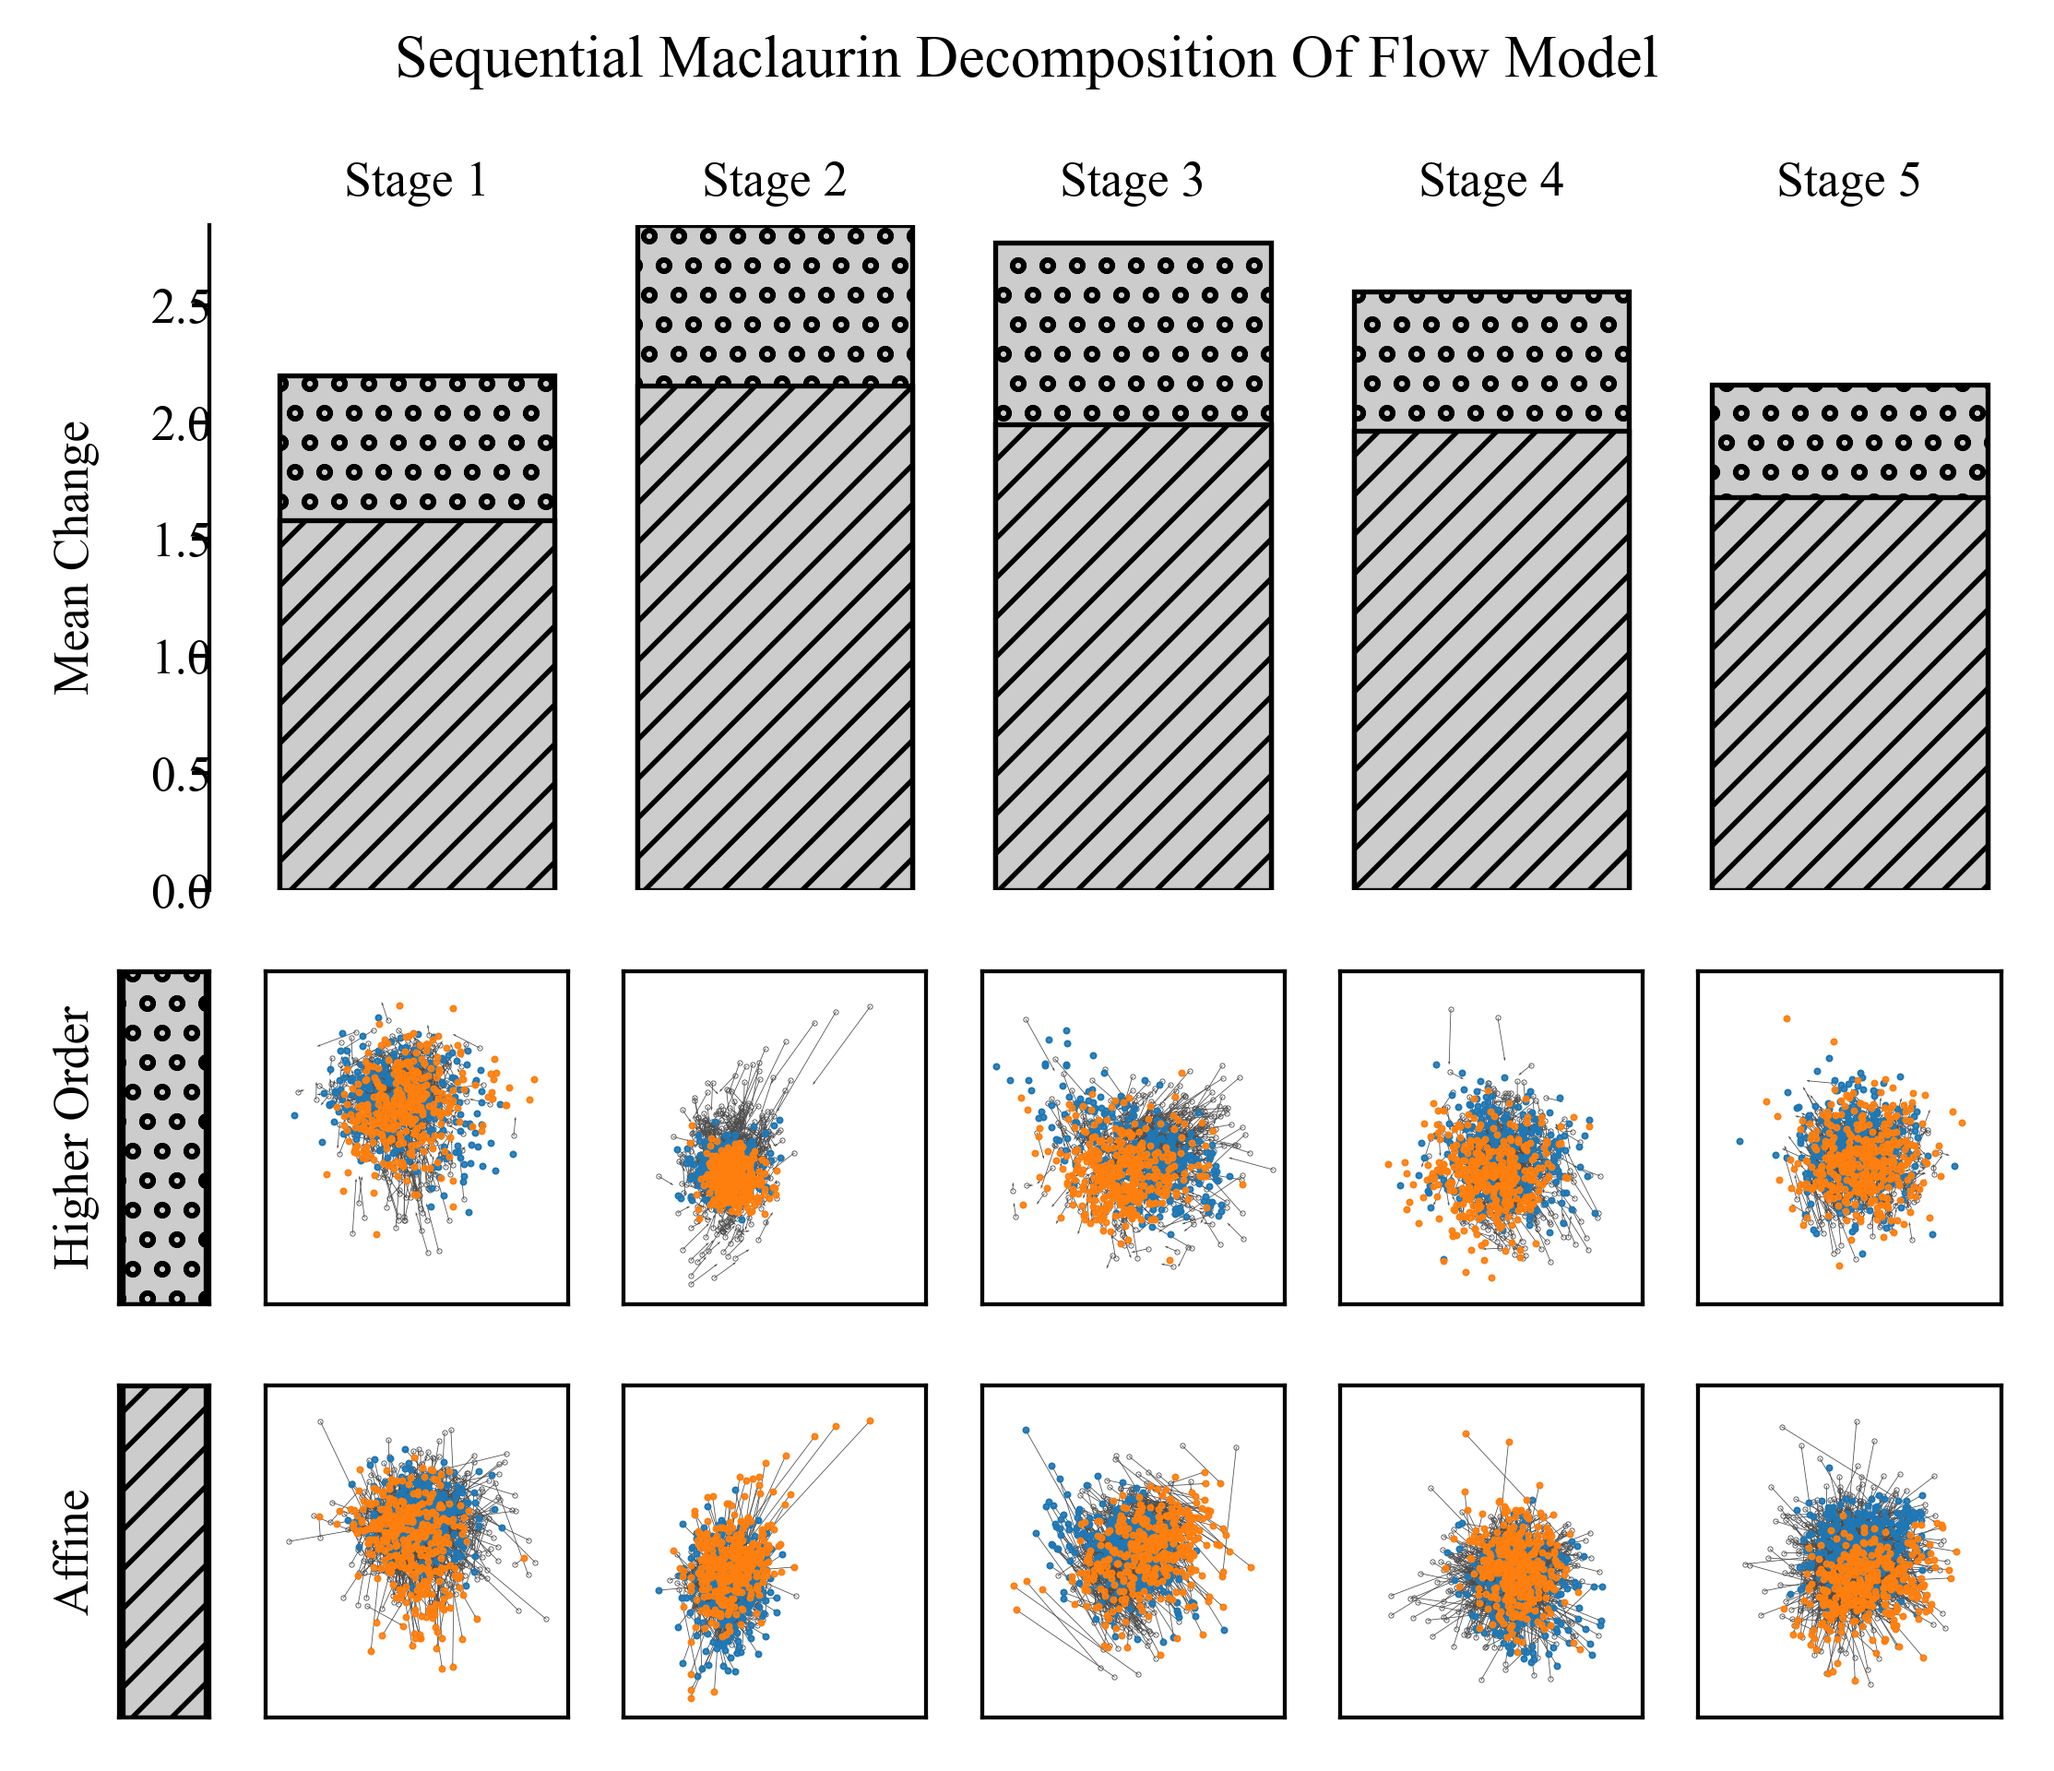
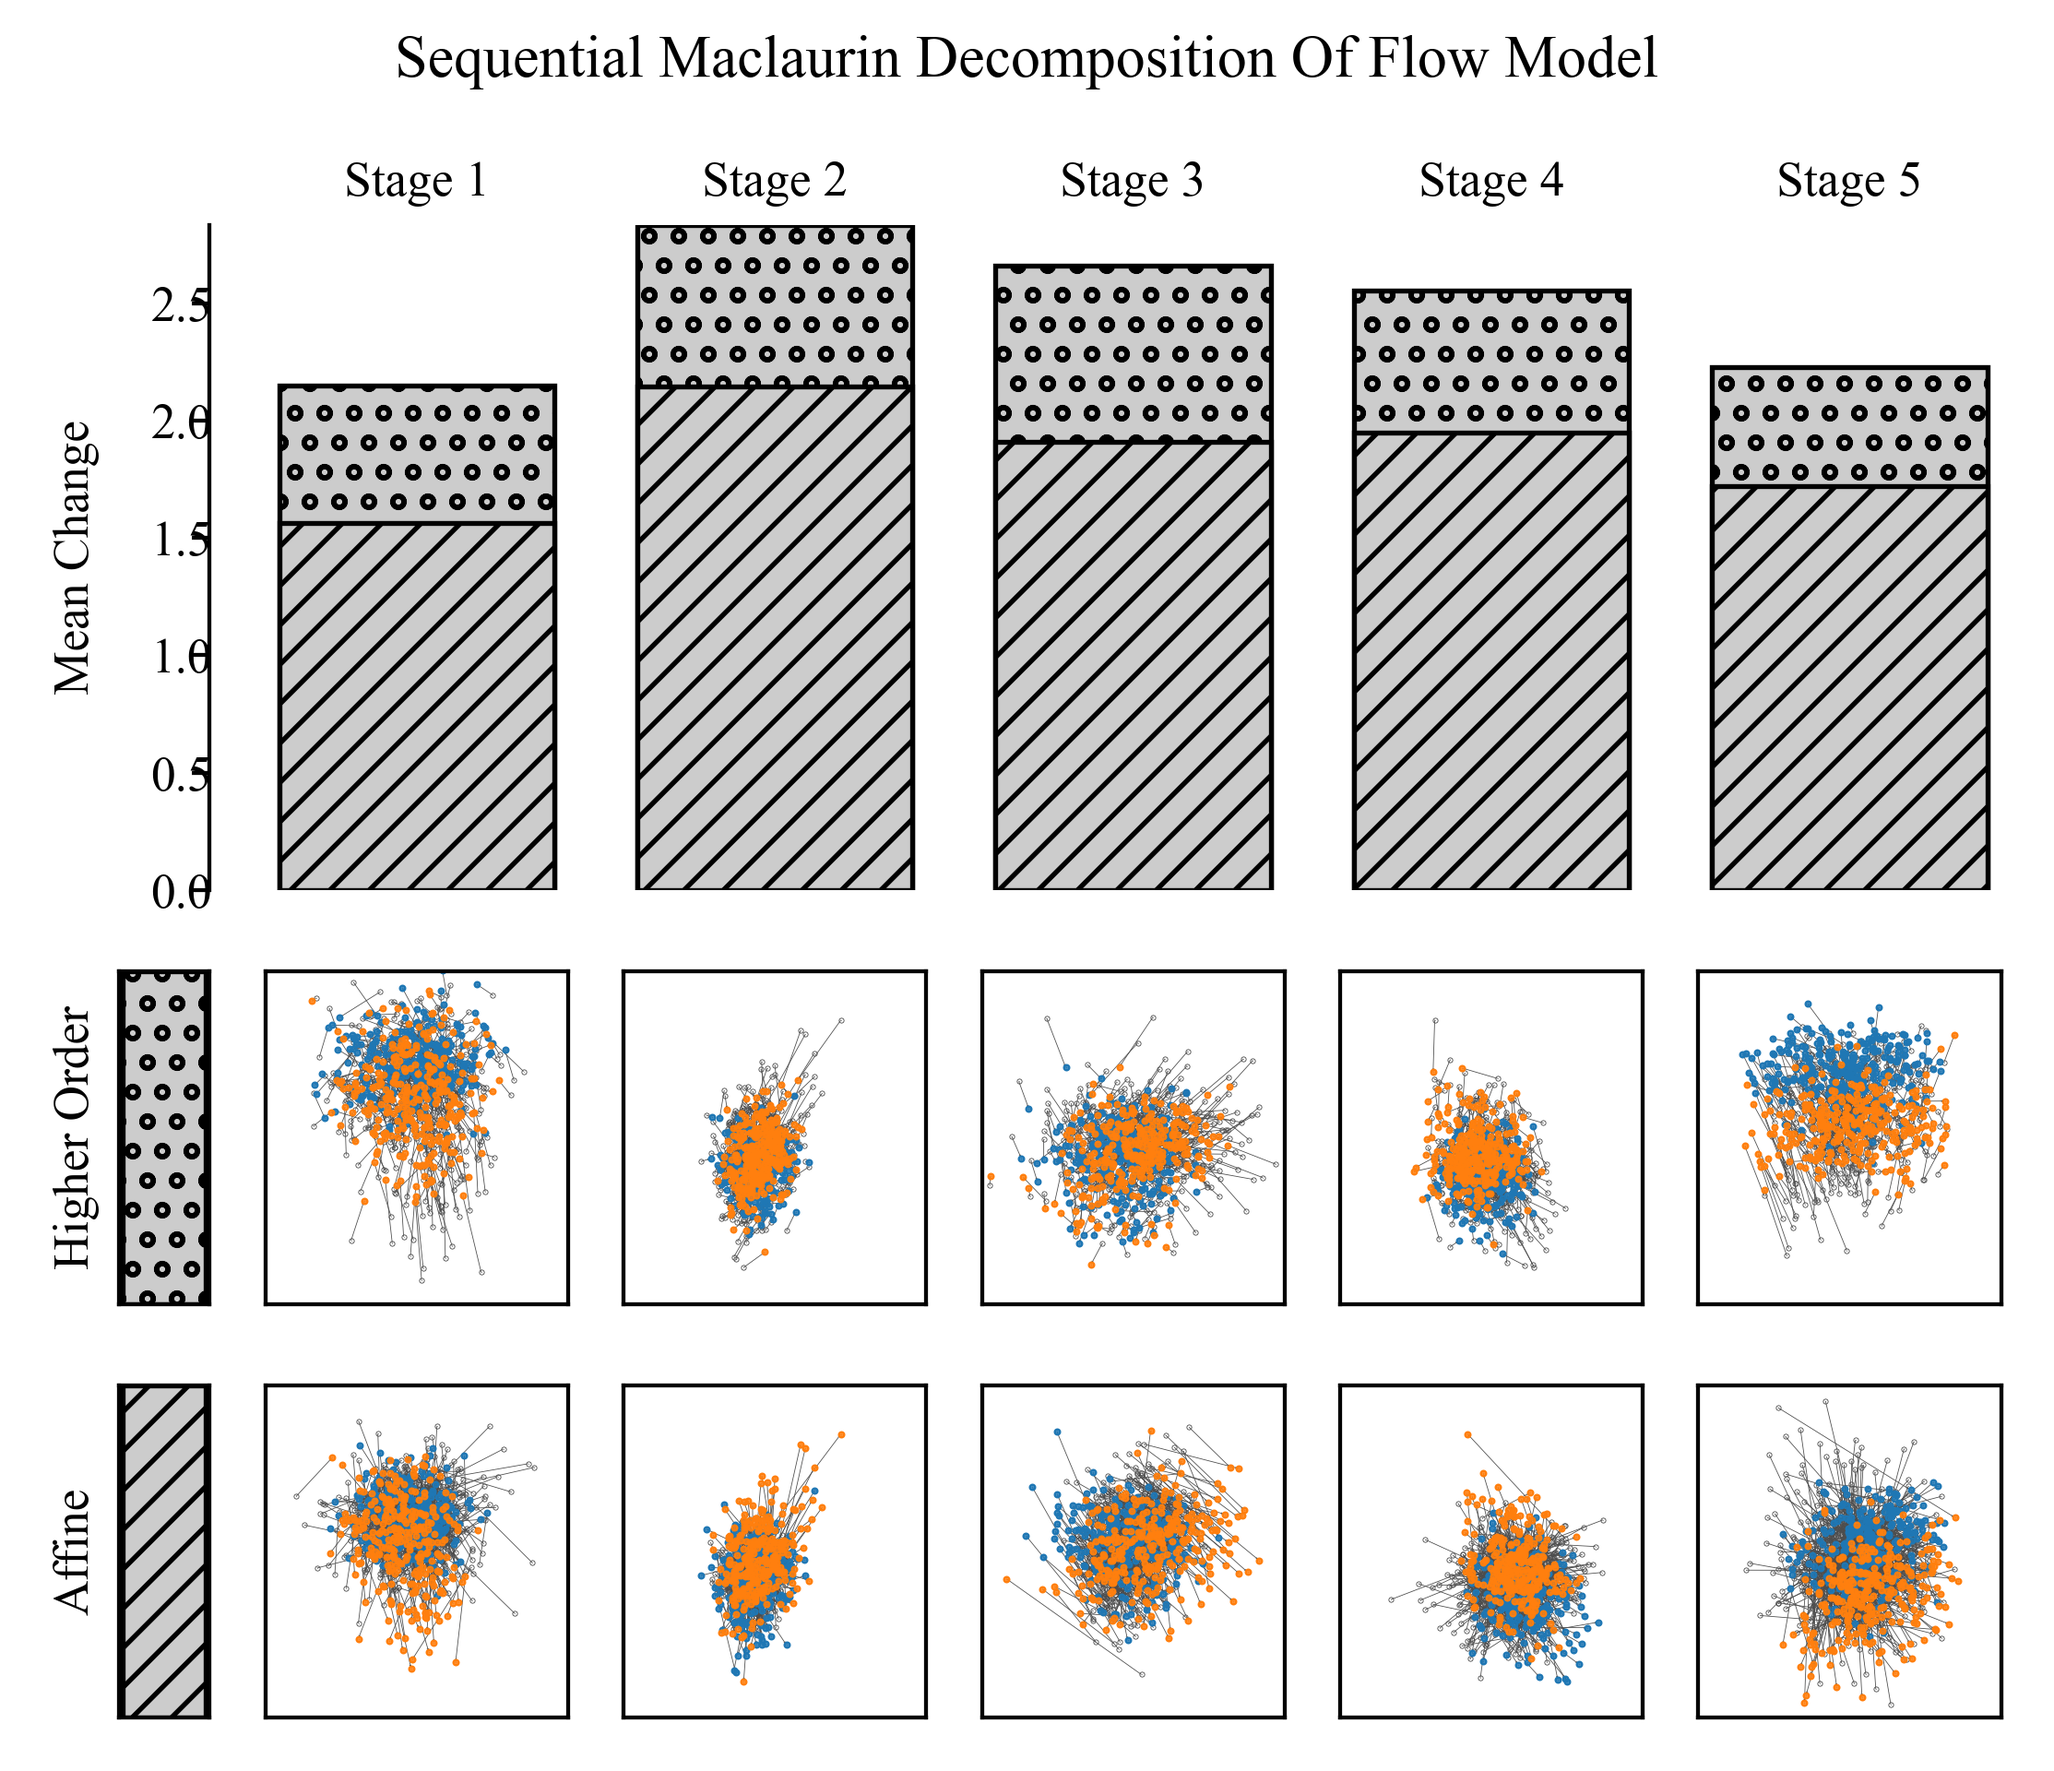
replotted 4 materials, two actions

diff --git a/src/latent_audio/scripts/evaluate_disentangle.py b/src/latent_audio/scripts/evaluate_disentangle.py
@@ -378,7 +378,7 @@ def knn_manipulation_check(flow_network: Callable, Z: np.ndarray, Y: np.ndarray,
         if stats.ttest_rel(permuted_accuracies[:,i], chance_accuracies[:,i]).pvalue < 0.025: # Corrected significance level
             plt.annotate("*", (2.49, 1.02))
         else: plt.annotate("o", (2.49, 1.02))
-        plt.ylim(0.43, 1.1)
+        plt.ylim(1.0/len(set(Y[:,i]))-0.07, 1.1)
         plt.xticks([1,2,3],["Original","Consistent\nPermutation","Inconsistent\nPermutation"])
         if i == -2: plt.ylabel("Accuracy")
         
@@ -461,6 +461,6 @@ with open(os.path.join(pca_model_path, 'Post PCA Standard Scaler.pkl'), 'rb') as
 plot_latent_transfer(Z_prime=Z_prime_sample, Y=Y_sample, dimensions_per_factor=dimensions_per_factor, pre_scaler=pre_scaler, pca=pca, post_scaler=post_scaler, flow_network=flow_network, layer_wise_yamnet=layer_wise_yamnet, layer_index=inspection_layer_index, plot_save_path=os.path.join(plot_save_path, f"Materials {m_string} actions {a_string} stages {stage_count} epochs {epoch_count} Calibrated Network Latent Transfer.png"))
 
 # Maclaurin series for materials and actions
-indices = random.sample(range(len(Z_test)), 700)
+indices = random.sample(range(len(Z_test)), 600)
 stage_wise_maclaurin(network=flow_network, Z= Z_test[indices], y= Y_test[indices,-2], layer_steps=[7*(s+1) for s in range(stage_count)], step_titles= [f'Stage {s+1}' for s in range(stage_count)], plot_save_path = os.path.join(plot_save_path, f"Materials {m_string} actions {a_string} stages {stage_count} epochs {epoch_count} Calibrated Network Maclaurin materials.png"))
 stage_wise_maclaurin(network=flow_network, Z= Z_test[indices], y= Y_test[indices,-1], layer_steps=[7*(s+1) for s in range(stage_count)], step_titles= [f'Stage {s+1}' for s in range(stage_count)], plot_save_path = os.path.join(plot_save_path, f"Materials {m_string} actions {a_string} stages {stage_count} epochs {epoch_count} Calibrated Network Maclaurin actions.png"))
